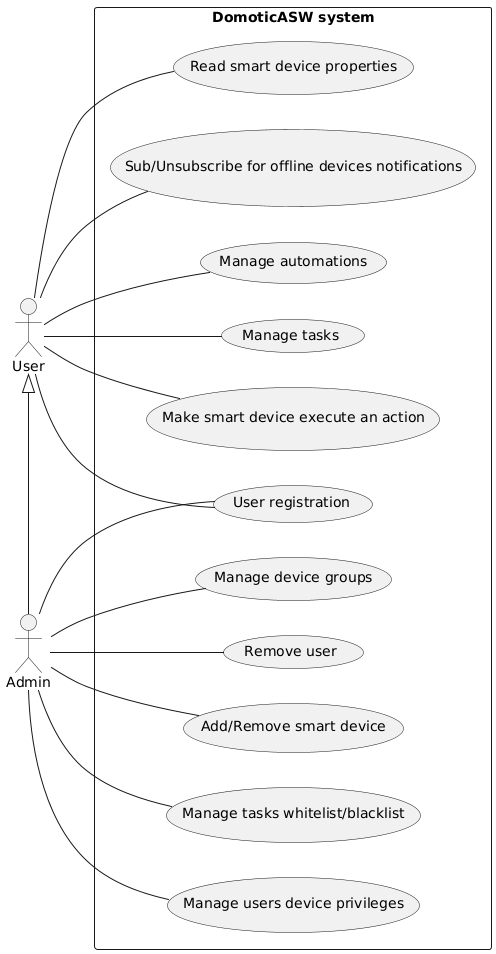
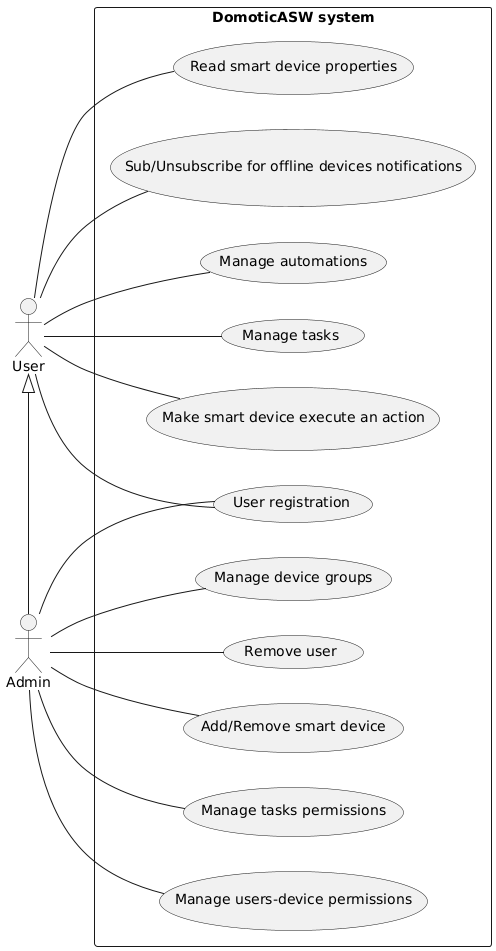
rename privileges into permissions in use-case

diff --git a/profile/README.md b/profile/README.md
@@ -227,3 +227,10 @@ We plan to use:
 ## Use case
 ![Use case diagram](../diagrams/generated/use-case.png)
 
+### Scenarios
+
+**Add/Remove smart device**:
+  1. The admin sees a list of devices added to the system.
+    **Add device**:
+  1. Each device in the list shows a button which can be clicked to remove the device
+  1. A button can be clicked in order to add a new device
